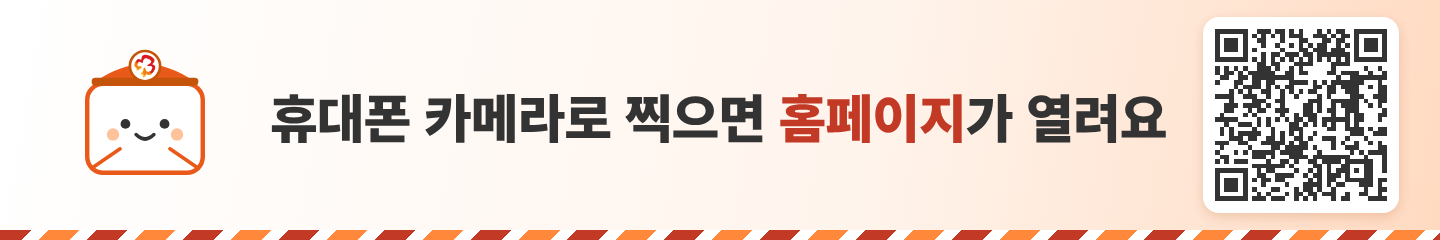
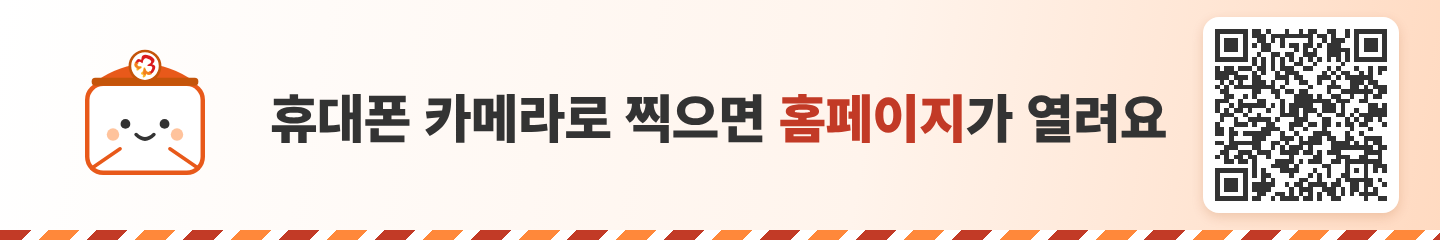
홈페이지 주소를 korea-bohum.vercel.app 으로 변경: 카페 설정·원고·대문·QR 배너·노션 문서
Claude-Session: https://claude.ai/code/session_01NDkHExbD7sg1GRU5d1kqZi

Changed region(s): [[0.8438, 0.1167, 0.9688, 0.8458]]

diff --git a/cafe/assets/qr-banner.html b/cafe/assets/qr-banner.html
@@ -9,4 +9,4 @@
 </style></head><body><div class="b">
[1 lines of base64/hex data omitted]
 <p class="t">휴대폰 카메라로 찍으면 <b>홈페이지</b>가 열려요</p>
[2 lines of base64/hex data omitted]

diff --git a/cafe/assets/door/door-naver.html b/cafe/assets/door/door-naver.html
@@ -20,7 +20,7 @@
 
 <!-- ▼▼▼ 사진 3 시작: btn-consult.png (1:1 상담 신청 버튼) ▼▼▼ -->
 <tr><td style="padding:0 0 8px 0">
-<a href="https://fc-homepage.vercel.app/consult?utm_source=naver_cafe&amp;utm_medium=cafe&amp;utm_campaign=cafe_door" target="_blank" rel="noopener noreferrer">
+<a href="https://korea-bohum.vercel.app/consult?utm_source=naver_cafe&amp;utm_medium=cafe&amp;utm_campaign=cafe_door" target="_blank" rel="noopener noreferrer">
 <img src="[이미지주소_btn-consult]" width="1080" height="100" alt="보험 상담 신청하기" style="width:100%;max-width:1080px;height:auto">
 </a>
 </td></tr>
@@ -29,7 +29,7 @@
 
 <!-- ▼▼▼ 사진 4 시작: btn-forms.png (무료 양식 버튼) ▼▼▼ -->
 <tr><td>
-<a href="https://fc-homepage.vercel.app/fun?utm_source=naver_cafe&amp;utm_medium=cafe&amp;utm_campaign=cafe_door" target="_blank" rel="noopener noreferrer">
+<a href="https://korea-bohum.vercel.app/fun?utm_source=naver_cafe&amp;utm_medium=cafe&amp;utm_campaign=cafe_door" target="_blank" rel="noopener noreferrer">
 <img src="[이미지주소_btn-forms]" width="1080" height="100" alt="무료 양식 받기" style="width:100%;max-width:1080px;height:auto">
 </a>
 </td></tr>

diff --git a/docs/notion/HANDOFF.md b/docs/notion/HANDOFF.md
@@ -3,7 +3,7 @@
 새 채팅에서 이 파일을 먼저 읽고 이어서 작업하세요. (저장소: PICTORY-droid/fc-homepage, 브랜치 feat/game → main)
 
 ## 1. 목적
-- 우체국보험 FC 홈페이지(https://fc-homepage.vercel.app)로 유입을 늘리기 위한 노션 사이트 "양식노트" 제작.
+- 우체국보험 FC 홈페이지(https://korea-bohum.vercel.app)로 유입을 늘리기 위한 노션 사이트 "양식노트" 제작.
 - 노션 글 작성은 Claude가 모두 담당, 사용자는 "웹에 게시(Publish to web)" 버튼만 직접 누름.
 - 사용자 원래 목표: 중복 없는 글 500개 이상. Claude 권고: 1차 약 40페이지 → 2주 트래픽 확인 → 확장. 유사도 검사 필수.
 
@@ -27,7 +27,7 @@ PPT 템플릿 / 엑셀 양식 / 워드·인쇄물 / 계절별 모음 / 사용법
 
 ## 5. FC 홈페이지 연결 방식
 - 글마다 FC 홈페이지 링크 1개, 글마다 다른 utm_campaign.
-- 예: https://fc-homepage.vercel.app/fun/ppt-pro?utm_source=notion&utm_medium=blog&utm_campaign=bday_ppt
+- 예: https://korea-bohum.vercel.app/fun/ppt-pro?utm_source=notion&utm_medium=blog&utm_campaign=bday_ppt
 - 사이트는 utm_source/medium/campaign을 sessionStorage로 기록(track.ts).
 - 양식 사용/상업 이용 조건은 사이트의 이용 안내를 확인한 뒤에만 글에 쓴다(미확인 상태에서 단정 금지).
 

diff --git a/cafe/posts/02-silson-guide.md b/cafe/posts/02-silson-guide.md
@@ -48,4 +48,4 @@ sources: [https://www.epostlife.go.kr, https://epostlife.go.kr/IPCCFQ0001.do]
 
 우체국 실손의료비보험은 스마트보험, 홈페이지, 전화(TM) 같은 비대면으로는 가입할 수 없어요. 가까운 우체국 금융창구(평일 09:00~16:30)를 방문하거나 우체국 FC와 상담한 뒤 가입해요.
 
-나이와 지금 가입한 보험에 따라 맞는 상품이 달라요. 함께 살펴보고 싶으시면 [상담 신청](https://fc-homepage.vercel.app/consult)을 남겨 주세요. 상담 신청만으로 가입이 진행되지는 않아요.
+나이와 지금 가입한 보험에 따라 맞는 상품이 달라요. 함께 살펴보고 싶으시면 [상담 신청](https://korea-bohum.vercel.app/consult)을 남겨 주세요. 상담 신청만으로 가입이 진행되지는 않아요.

diff --git a/cafe/posts/00-welcome.md b/cafe/posts/00-welcome.md
@@ -36,4 +36,4 @@ sources: [https://www.epostlife.go.kr]
 
 ## 상담이 필요하시면
 
-보장분석이 필요하시면 '1:1 상담 신청 안내' 게시판에 글쓰기 양식대로 적어 주세요. 이 게시판 글은 카페 매니저만 읽을 수 있어요. 홈페이지의 [상담 신청 페이지](https://fc-homepage.vercel.app/consult)에서도 신청하실 수 있어요. 상담 신청만으로 가입이 진행되지는 않아요.
+보장분석이 필요하시면 '1:1 상담 신청 안내' 게시판에 글쓰기 양식대로 적어 주세요. 이 게시판 글은 카페 매니저만 읽을 수 있어요. 홈페이지의 [상담 신청 페이지](https://korea-bohum.vercel.app/consult)에서도 신청하실 수 있어요. 상담 신청만으로 가입이 진행되지는 않아요.

diff --git a/cafe/posts/05-term-life.md b/cafe/posts/05-term-life.md
@@ -44,4 +44,4 @@ sources: [https://www.epostlife.go.kr]
 - **납입 기간**: 보험기간보다 짧게 내고 끝낼지(5·10·15·20·30년납), 소득이 있는 기간에 맞출지 생각해 보세요.
 - **순수형·환급형**: 두 유형의 보험료와 만기 때 돌려받는 금액이 다르니, 상품설명서에서 함께 비교해 보세요.
 
-보험기간과 가입금액을 어떻게 정할지 고민되시면 [상담 신청](https://fc-homepage.vercel.app/consult)을 남겨 주세요. 상담 신청만으로 가입이 진행되지는 않아요.
+보험기간과 가입금액을 어떻게 정할지 고민되시면 [상담 신청](https://korea-bohum.vercel.app/consult)을 남겨 주세요. 상담 신청만으로 가입이 진행되지는 않아요.

diff --git a/cafe/posts/03-mom-insurance.md b/cafe/posts/03-mom-insurance.md
@@ -43,4 +43,4 @@ sources: [https://www.epostlife.go.kr, https://www.epostlife.go.kr/ISDMDM00AS.do
 - **보장 기간**: 아이 보장은 10년, 엄마 보장은 분만할 때까지(최대 10개월)예요. 두 기간이 다르다는 점을 기억해 두세요.
 - **다른 태아보험과 함께**: 이미 준비 중인 태아보험이 있다면 보장이 겹치는 부분과 빈 부분을 함께 비교해 보시면 좋아요.
 
-가입 조건이나 보장 범위가 헷갈리시면 [상담 신청](https://fc-homepage.vercel.app/consult)을 남겨 주세요. 함께 확인해 드려요.
+가입 조건이나 보장 범위가 헷갈리시면 [상담 신청](https://korea-bohum.vercel.app/consult)을 남겨 주세요. 함께 확인해 드려요.

diff --git a/cafe/posts/01-claim-docs.md b/cafe/posts/01-claim-docs.md
@@ -55,4 +55,4 @@ sources: [https://epostlife.go.kr/IPCCFQ0001.do]
 
 암보험·건강보험 같은 정액보험과 실손보험을 함께 가입했다면 중복으로 보상돼요. 실손보험끼리 여러 개 가입한 경우에만 나눠서(비례) 보상해요.
 
-청구하다 막히는 부분이 있으면 보험 질문방에 남겨 주세요. 가입 중인 보험을 함께 살펴보고 싶으시면 [상담 신청](https://fc-homepage.vercel.app/consult)도 할 수 있어요.
+청구하다 막히는 부분이 있으면 보험 질문방에 남겨 주세요. 가입 중인 보험을 함께 살펴보고 싶으시면 [상담 신청](https://korea-bohum.vercel.app/consult)도 할 수 있어요.

diff --git a/cafe/posts/04-dental.md b/cafe/posts/04-dental.md
@@ -45,4 +45,4 @@ sources: [https://www.epostlife.go.kr, https://epostlife.go.kr/IPCCFQ0001.do]
 - **보철 치료**: 보철 치료 보장이 필요하면 보철치료보장특약을 함께 살펴보세요. 보장 범위는 약관에서 확인해 주세요.
 - **밀린 보험료**: 스케일링 치료자금은 지급일에 미납 보험료가 없어야 받을 수 있어요.
 
-치아 보장을 어떻게 준비할지 고민되시면 [상담 신청](https://fc-homepage.vercel.app/consult)을 남겨 주세요.
+치아 보장을 어떻게 준비할지 고민되시면 [상담 신청](https://korea-bohum.vercel.app/consult)을 남겨 주세요.
